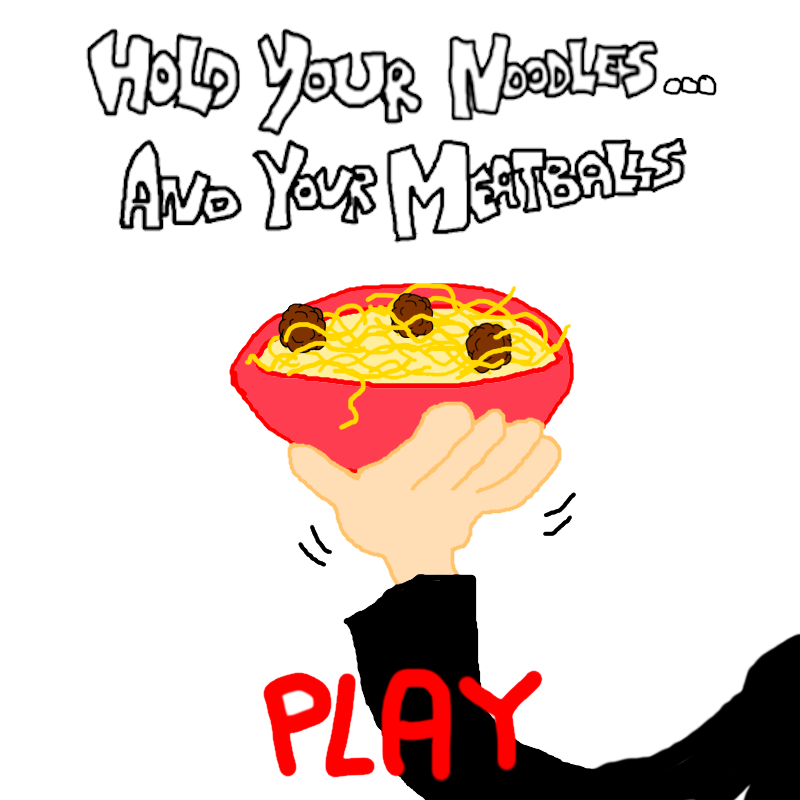
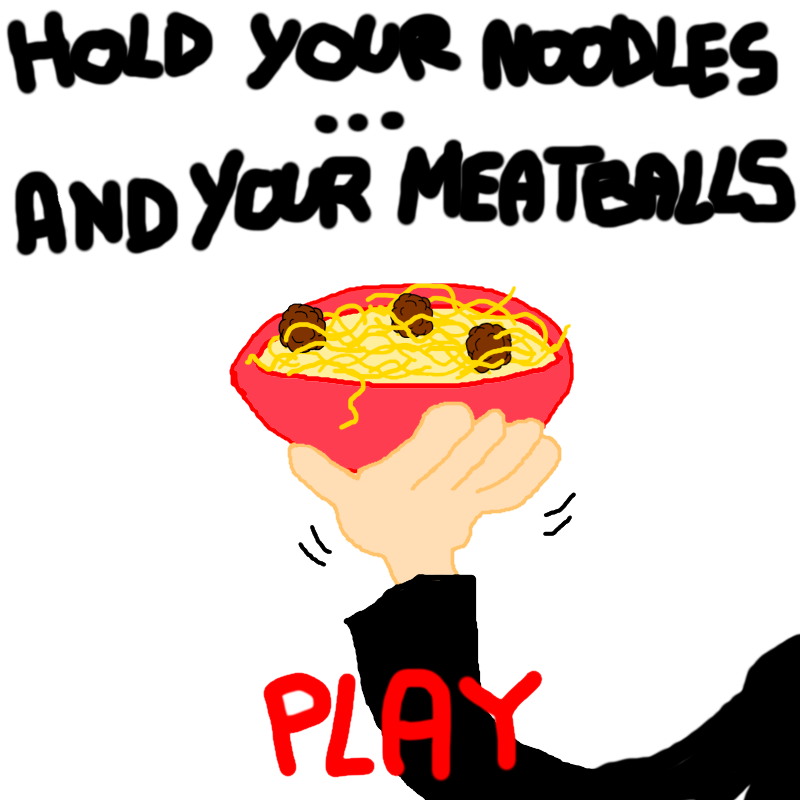
improve

Changed region(s): [[0.0, 0.0, 1.0, 0.3438]]

diff --git a/index.html b/index.html
@@ -5,6 +5,7 @@
   <meta name="viewport" content="width=device-width, initial-scale=1.0">
   <title>H.Y.N.A.Y.M</title>
   <script src="https://cdn.jsdelivr.net/npm/phaser@3/dist/phaser.min.js"></script>
+  <link href="https://fonts.googleapis.com/css2?family=Tillana:wght@400&display=swap" rel="stylesheet"> <!-- Add Tillana font -->
   <style>
     body { cursor: pointer; background: #000; }
   </style>
@@ -15,7 +16,6 @@
 let cursors;
     let objectCounter = 0; // Declare objectCounter as a global variable
     let counterText; // Text field to display the current falling item's number
-    let lostText; // Text to display "lost" message
     let lost = 0;
     let platform, platform2, platform3, platform4, platform5; // Declare all platforms globally
   
@@ -27,7 +27,7 @@ let cursors;
     }
 
     preload() {
-      this.load.image('cube', 'https://via.placeholder.com/50/FF0000/FFFFFF?text=+');
+      this.load.image('cube', './noodle.png');
       this.load.image('noodle', './noodle.png'); // Load the noodle image
       this.load.image('title', './title.png'); // Load the title screen background image
     }
@@ -35,6 +35,12 @@ let cursors;
     create() {
       // Set the title screen background
       this.add.image(400, 400, 'title').setOrigin(0.5); // Center the background image
+
+      // Display "SCORE: 0" at the beginning of the game
+      this.add.text(400, 400, '', {
+        font: '40px "Tillana"', // Use Tillana font
+        fill: '#ffffff',
+      }).setOrigin(0.5); // Center the text
 
       // Make clicking anywhere on the canvas start the game
       this.input.on('pointerdown', () => {
@@ -54,6 +60,7 @@ let cursors;
     preload() {
       //this.load.image('cube', 'https://via.placeholder.com/50/FF0000/FFFFFF?text=+');
       this.load.image('noodle', './noodle.png'); // Load the noodle image
+      this.load.image('lost', './lost.png'); // Load the lost screen image
     }
 
     create() {
@@ -61,8 +68,8 @@ let cursors;
          
  
      // Create the text field at the top of the screen
-     counterText = this.add.text(10, 10, 'SCORE: 0', {
-      font: '20px Arial',
+     counterText = this.add.text(10, 10, '', {
+      font: '40px "Tillana"', // Use Tillana font
       fill: '#ffffff',
     });
     
@@ -129,22 +136,7 @@ let cursors;
           if (circle.position.y > 800) {
             this.matter.world.pause(); // Stop the physics simulation
             lost = 1;
-            lostText = this.add.text(400, 400, 'LOST', {
-              font: '40px Arial',
-              fill: '#ff0000',
-            }).setOrigin(0.5); // Center the "lost" text
-          
-            // Add "Return to Title" button
-            const returnButton = this.add.text(400, 450, 'RETURN TO TITLE', {
-              font: '30px Arial',
-              fill: '#ffffff',
-            }).setOrigin(0.5).setInteractive();
-
-            // Reload the page when the button is clicked
-            returnButton.on('pointerdown', () => {
-              location = location;
-            });
-            
+            this.add.image(400, 400, 'lost').setOrigin(0.5).setScale(0.75); // Center the image and scale it
           }
         });
 
@@ -177,21 +169,7 @@ let cursors;
       if (rectangle.y > 800) {
         this.matter.world.pause(); // Stop the physics simulation
         lost = 1;
-        lostText = this.add.text(400, 400, 'LOST', {
-          font: '40px Arial',
-          fill: '#ff0000',
-        }).setOrigin(0.5); // Center the "lost" text
-
-        // Add "Return to Title" button
-        const returnButton = this.add.text(400, 450, 'RETURN TO TITLE', {
-          font: '30px Arial',
-          fill: '#ffffff',
-        }).setOrigin(0.5).setInteractive();
-
-        // Reload the page when the button is clicked
-        returnButton.on('pointerdown', () => {
-          location = location;
-        });
+        this.add.image(400, 400, 'lost').setOrigin(0.5).setScale(0.75); // Center the image and scale it
       }
     });
   }
@@ -199,6 +177,13 @@ let cursors;
   
       },
       loop: true,
+    });
+
+    // Make the entire canvas clickable when the player loses
+    this.input.on('pointerdown', () => {
+      if (lost == 1) {
+        location.reload(); // Reload the page
+      }
     });
   }
 
